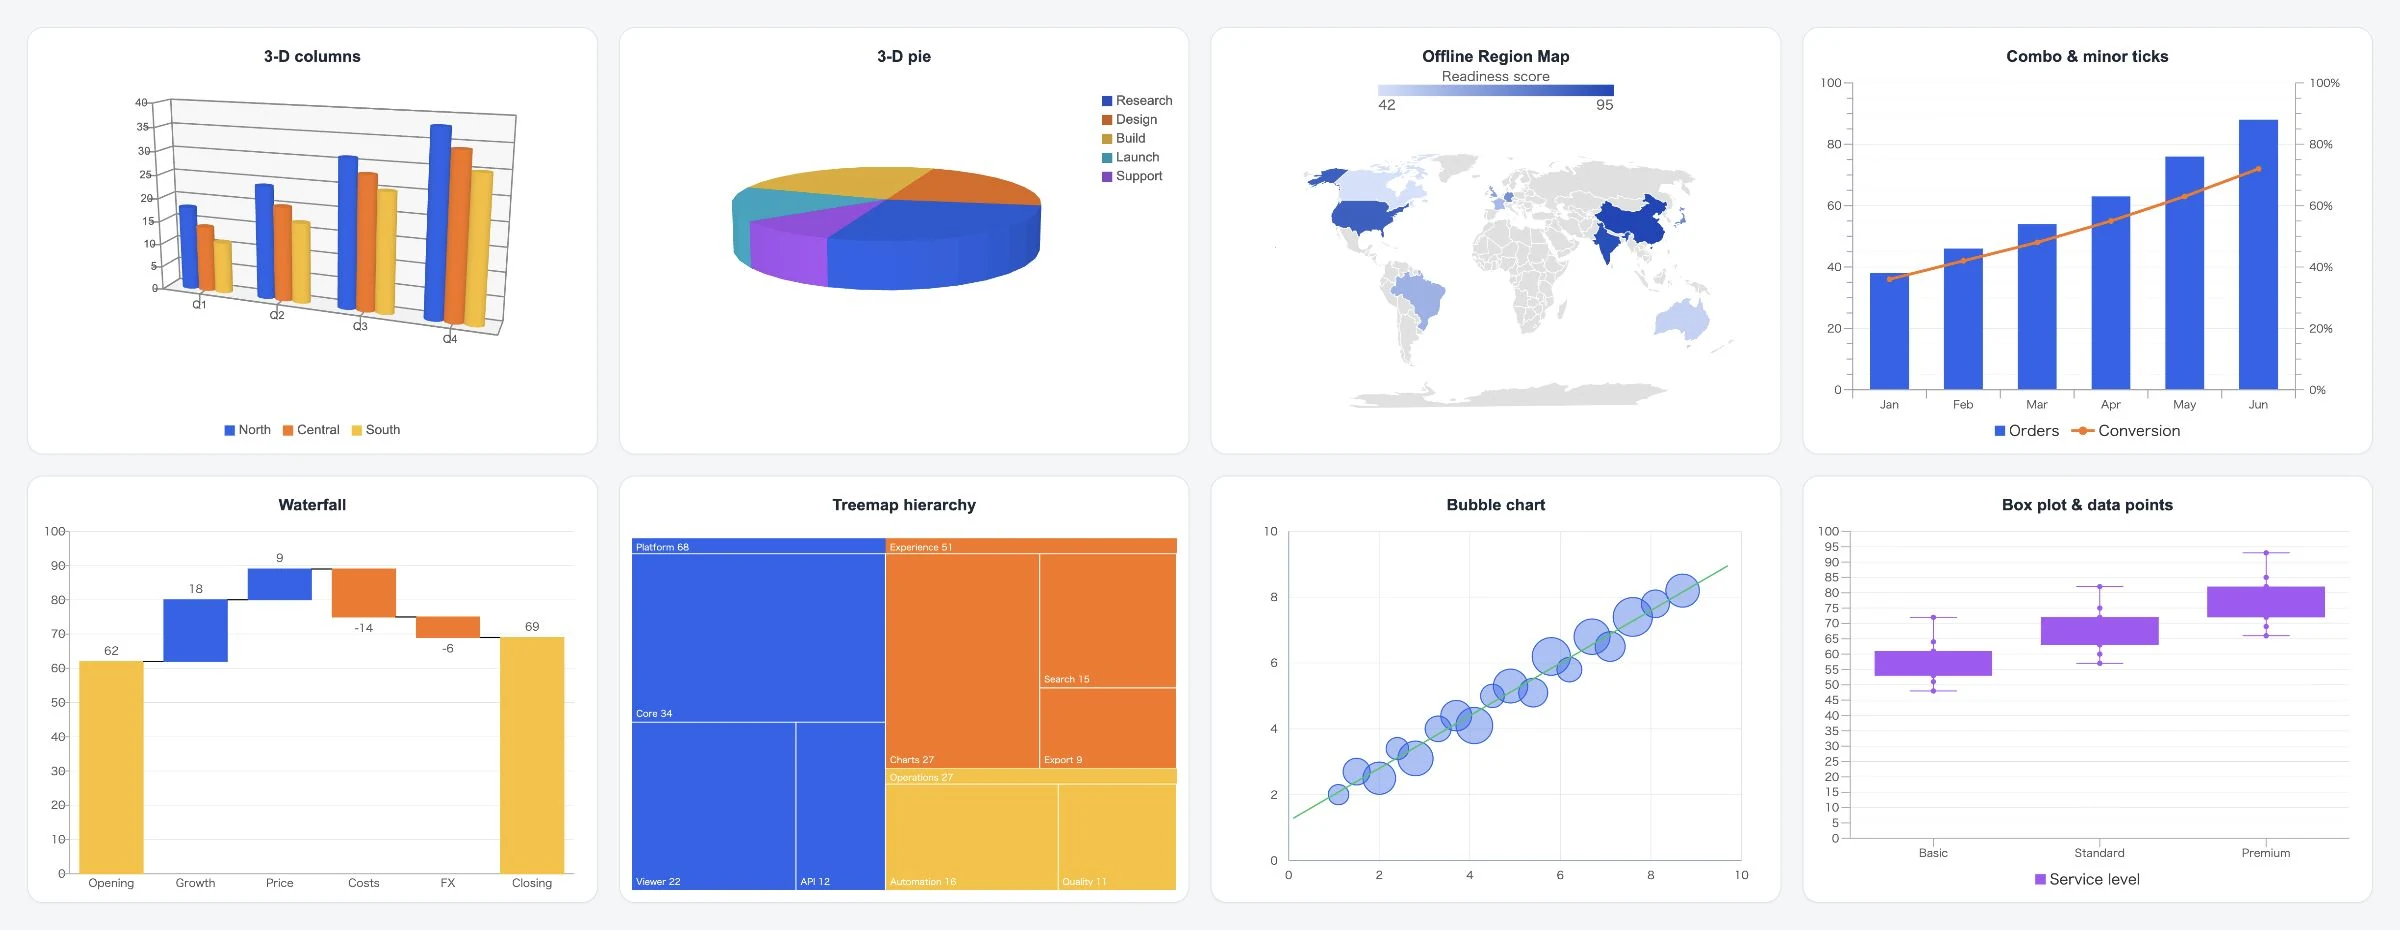
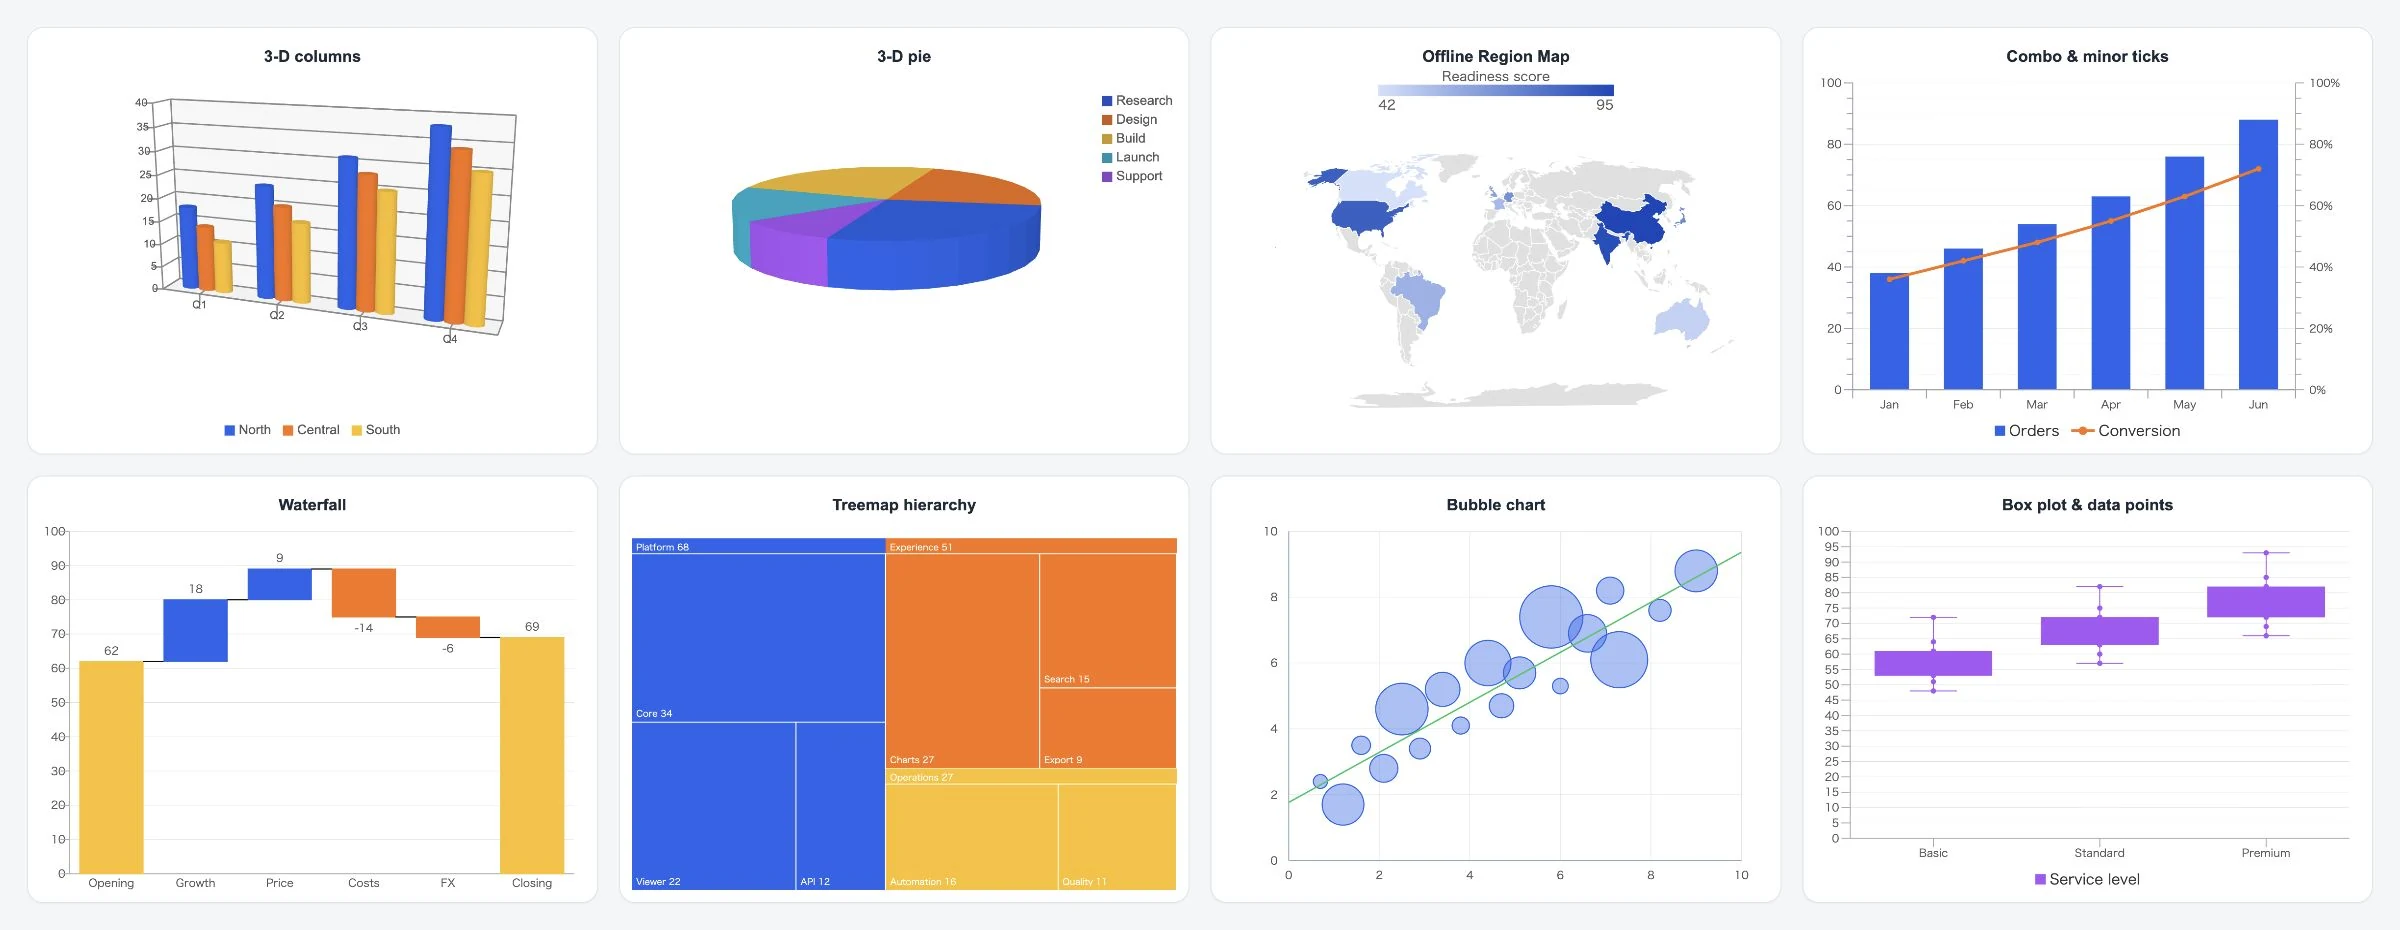
docs(site): publish concise v0.79 announcement
Mark the chart announcement as a release note, remove speculative runtime-angle language, and reduce Region Map provenance to the public-domain Natural Earth fact and supported scope. Simplify adjacent defensive wording and refresh the synthetic bubble panel with more varied positions and sizes.\n\nVerification:\n- pnpm exec vitest run site/src/announcement-content.test.ts site/src/lib/api-reference.test.ts\n- pnpm --filter @silurus/ooxml-site build\n- git diff --check\n\nCo-Authored-By: Codex GPT-5 <noreply@openai.com>

Changed region(s): [[0.5312, 0.5925, 0.7188, 0.9043]]

diff --git a/site/src/lib/announcements.ts b/site/src/lib/announcements.ts
@@ -38,29 +38,29 @@ export const announcements: readonly Announcement[] = [
   {
     slug: 'v079-chart-rendering-addons',
     date: '2026-08-14',
-    label: 'Upcoming release',
+    label: 'Release note',
     version: 'v0.79.0',
     title: '3-D charts, Region Maps and chart fidelity in v0.79.0',
-    summary: 'The next release adds opt-in 3-D and offline Region Map renderers while improving shared chart axes, labels, legends and modern chart families across DOCX, XLSX and PPTX.',
+    summary: 'v0.79.0 adds opt-in 3-D and offline Region Map renderers while improving shared chart axes, labels, legends and modern chart families across DOCX, XLSX and PPTX.',
     audience: 'Applications that display Office charts. Existing applications keep the 2-D fallback without source changes; import the optional add-ons only when authored 3-D charts or country-level Region Maps are required.',
     image: {
       src: '/announcements/chart-rendering-v079.webp',
       alt: 'A grid of eight synthetic chart renderings: 3-D columns, 3-D pie, an offline country Region Map, a combo chart with minor ticks, waterfall, treemap, bubble and box-and-whisker charts.',
-      caption: 'Rendered by @silurus/ooxml from synthetic data. The map uses public-domain Natural Earth geometry; no Office, Bing or private-document artwork is reproduced.',
+      caption: 'Rendered by @silurus/ooxml from synthetic data. The map uses public-domain Natural Earth geometry.',
     },
     sections: [
       {
         title: 'In short',
         kind: 'summary',
         modules: ['@silurus/ooxml/docx', '@silurus/ooxml/xlsx', '@silurus/ooxml/pptx', '@silurus/ooxml/three-d', '@silurus/ooxml/region-map'],
-        rationale: 'Advanced chart renderers carry geometry and camera data that many applications never use, so they should not enlarge the default document-viewing graph.',
+        rationale: '3-D camera and map geometry stay out of the default bundles unless an application enables them.',
         paragraphs: [
-          'v0.79.0 keeps ordinary chart rendering in the format entries and moves the heavier 3-D camera, mesh painter and country geometry into explicit add-ons. The same injected renderer works for charts hosted by Word, Excel and PowerPoint.',
-          'Applications that do nothing continue to receive the canonical 2-D fallback. There is no migration for existing viewer or engine construction.',
+          'v0.79.0 keeps ordinary chart rendering in the format entries and provides 3-D and Region Map rendering as explicit add-ons. The same injected renderer works for charts hosted by Word, Excel and PowerPoint.',
+          'Existing viewers continue to use the 2-D fallback without configuration changes. No migration is required.',
         ],
         bullets: [
           'Authored 3-D chart views render through one model-space camera and projected mesh pipeline.',
-          'Country-level ChartEx Region Maps render offline from worksheet/document data and a pinned Natural Earth asset.',
+          'Country-level ChartEx Region Maps render offline from worksheet or document data.',
           'Shared axis planning, titles, data labels, legend paint and ChartEx layout now follow more authored OOXML properties.',
           'Both optional modules are tree-shakeable and main-thread only.',
         ],
@@ -71,7 +71,7 @@ export const announcements: readonly Announcement[] = [
         rationale: 'Axes, walls, grids, bars, lines and surfaces must share one projection to remain geometrically coherent.',
         paragraphs: [
           'The 3-D add-on projects chart walls, axes and data through one homogeneous camera instead of applying unrelated screen-space offsets. Bar and column solids use projected meshes, area charts use extruded surfaces, and pie slices use bounded mesh geometry. Authored box, cylinder, cone, cone-to-max, pyramid and pyramid-to-max shapes are retained where the OOXML model supplies them.',
-          'The renderer honors the view saved in the document, including rotation, perspective, right-angle axes, depth and height. It is not an interactive orbit control: changing the angle in a running Viewer is not currently a public API.',
+          'The renderer honors the view saved in the document, including rotation, perspective, right-angle axes, depth and height.',
         ],
       },
       {
@@ -79,9 +79,9 @@ export const announcements: readonly Announcement[] = [
         modules: ['@silurus/ooxml/region-map', '@silurus/ooxml/docx', '@silurus/ooxml/xlsx', '@silurus/ooxml/pptx'],
         rationale: 'An OOXML Region Map may store country names and values without embedding the geographic polygons used by Excel.',
         paragraphs: [
-          'The parser keeps ChartEx country identities, numeric color values, authored projections and two- or three-stop color scales. The add-on resolves supported countries against a fixed, coordinate-quantized Natural Earth Admin 0 Countries 1:110m asset and never performs a network request.',
-          'The geometry is not copied from Excel or Bing. Natural Earth publishes the source vector data in the public domain; the bundled derivative records its source SHA-256, fixed feature and vertex bounds, and provenance in THIRD_PARTY_NOTICES.md.',
-          'The first release deliberately supports country-level world maps. Cached provider identities, state/county/postal views and unsupported view-specific layouts fail closed instead of guessing a geographic match.',
+          'The parser keeps ChartEx country identities, numeric color values, authored projections and two- or three-stop color scales. The add-on renders supported countries offline.',
+          'The map uses public-domain Natural Earth Admin 0 Countries 1:110m geometry.',
+          'v0.79.0 supports country-level world maps. Cached provider identities and state, county or postal views are not supported.',
         ],
       },
       {
@@ -114,7 +114,7 @@ await viewer.load(source);`,
         rationale: 'Office chart fidelity must not reintroduce unbounded tick, text, hierarchy or mesh expansion.',
         paragraphs: [
           'Classic and ChartEx charts now share more of the same value-axis planner, title defaults, data-label layout, rich text, legend paint and explicit-property precedence. This improves waterfall, funnel, box-and-whisker, histogram, Pareto, treemap, sunburst, bubble, line, area and combo charts without family-specific copies of the same policy.',
-          'Tick generation, data-label text, hierarchy depth, Region Map rows and expanded 3-D primitives are checked before allocation or painting. Optional module boundaries are verified from clean production bundles so the mesh/camera code and fixed geographic asset do not leak into the base entries.',
+          'Tick generation, data-label text, hierarchy depth, Region Map rows and expanded 3-D primitives are checked before allocation or painting. The optional entries keep 3-D and map geometry out of the base format bundles.',
         ],
       },
       {

diff --git a/site/src/announcement-content.test.ts b/site/src/announcement-content.test.ts
@@ -7,13 +7,13 @@ const articlePage = readFileSync(new URL('./pages/announcements/[slug].astro', i
 describe('v0.79 chart rendering announcement', () => {
   const announcement = announcements.find((item) => item.slug === 'v079-chart-rendering-addons');
 
-  it('states the opt-in and no-migration decision before implementation detail', () => {
+  it('publishes the release and states the opt-in decision before implementation detail', () => {
     expect(announcement).toBeDefined();
-    expect(announcement?.label).toBe('Upcoming release');
+    expect(announcement?.label).toBe('Release note');
     expect(announcement?.sections[0]).toMatchObject({ title: 'In short', kind: 'summary' });
     const summary = announcement?.sections[0]?.paragraphs.join(' ') ?? '';
     expect(summary).toContain('explicit add-ons');
-    expect(summary).toContain('no migration');
+    expect(summary).toContain('No migration');
   });
 
   it('documents module boundaries, Region Map provenance and fidelity scope', () => {
@@ -26,10 +26,10 @@ describe('v0.79 chart rendering announcement', () => {
     expect(text).toContain('@silurus/ooxml/three-d');
     expect(text).toContain('@silurus/ooxml/region-map');
     expect(text).toContain('Natural Earth');
-    expect(text).toContain('not copied from Excel or Bing');
-    expect(text).toContain('fail closed');
+    expect(text).toContain('country-level world maps');
     expect(text).toContain('main thread');
-    expect(text).toContain('not an interactive orbit control');
+    expect(text).not.toContain('interactive orbit');
+    expect(text).not.toContain('copied from Excel or Bing');
   });
 
   it('uses one local renderer-produced image with explicit provenance', () => {
